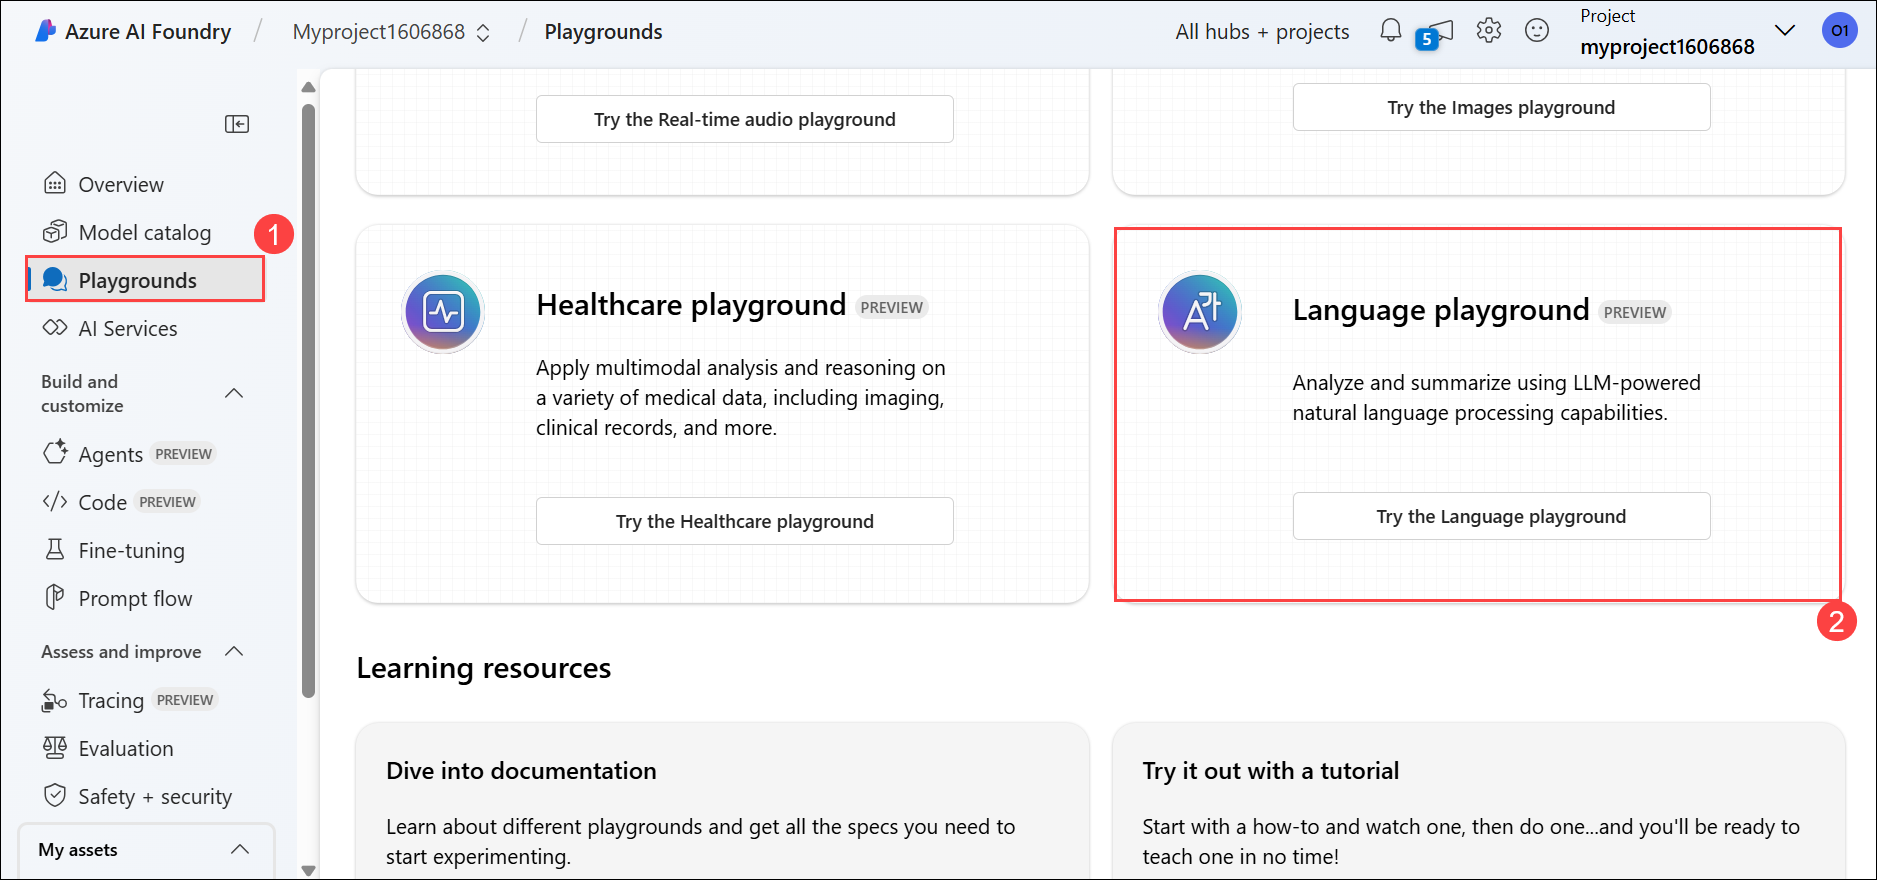
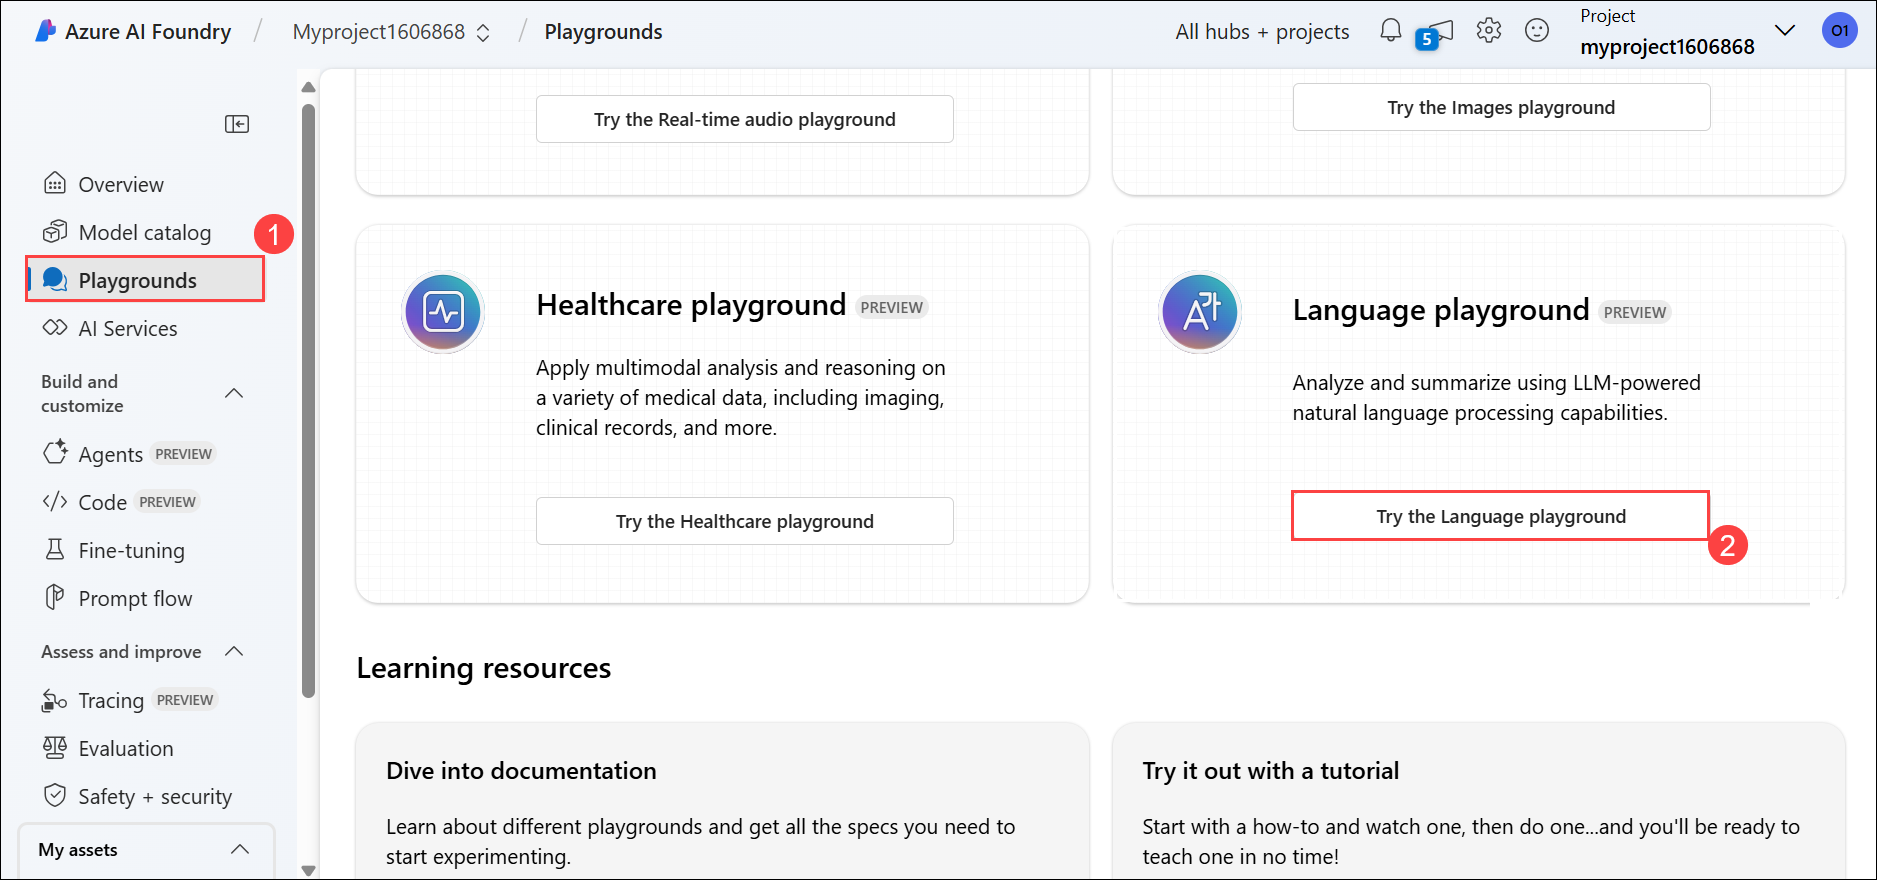
Updated

diff --git a/Instructions/Labs/06-text-analysis.md b/Instructions/Labs/06-text-analysis.md
@@ -99,13 +99,15 @@ This task demonstrates how to use Azure AI Language Playground for Named Entity 
 
 *Named entities* are words that describe people, places, and objects with proper names. Let's use the named entity extraction capability of Azure AI Language to identify types of information in a review.
 
-1. Navigate to **Playgrounds (1)** from the left pane, select the **Language playground (2)** tile to try out some Azure AI Language capabilities.
+1. Navigate to **Playgrounds (1)** from the left pane, Under **Language playground** tile select **Try the Language playground (2)**.
 
     ![](./media/18-1.png)
 
 1. In the Language playground, select **Extract information (1)**. Then select the **Extract named entities (2)** tile. 
 
-1. Under **Sample (3)**, copy and paste the following review:
+   ![](./media/3-25.png)
+
+1. Under **Sample**, copy and paste the following review:
 
     ```
     Tired hotel with poor service
@@ -114,11 +116,13 @@ This task demonstrates how to use Azure AI Language Playground for Named Entity 
     This is an old hotel (has been around since 1950's) and the room furnishings are average - becoming a bit old now and require changing. The internet didn't work and had to come to one of their office rooms to check in for my flight home. The website says it's close to the British Museum, but it's too far to walk.
     ```
 
-1. Select **Run (4)**. Review the output.
+   ![](./media/6-1.png)
+   
+1. Click **Run** to process the text.
 
-   ![](./media/18-2.png)
+   ![](./media/6-2.png)
 
-2. Notice in the **Details** section how the extracted entities come with additional information such as type and confidence scores. The confidence score represents the likelihood that the type identified actually belongs to that category.
+2. Review the output and observe the **Details** section, where the extracted entities are accompanied by additional information such as type and confidence scores. The confidence score indicates the probability that the identified type correctly belongs to the specified category.
 
    ![](./media/18-3.png)
 
@@ -130,7 +134,9 @@ This task demonstrates how to use Azure AI Language Playground for key phrase ex
 
 1. In the Language playground, select **Extract information (1)**. Then select the **Extract key phrases (2)** tile. 
 
-1. Under **Sample (3)**, copy and paste the following review:
+   ![](./media/6-3.png)
+
+1. Under **Sample**, copy and paste the following review:
 
     ```
     Good Hotel and staff
@@ -138,13 +144,16 @@ This task demonstrates how to use Azure AI Language Playground for key phrase ex
     3/2/2018
     Clean rooms, good service, great location near Buckingham Palace and Westminster Abbey, and so on. We thoroughly enjoyed our stay. The courtyard is very peaceful and we went to a restaurant which is part of the same group and is Indian ( West coast so plenty of fish) with a Michelin Star. We had the taster menu which was fabulous. The rooms were very well appointed with a kitchen, lounge, bedroom and enormous bathroom. Thoroughly recommended.
     ```
-1. Select **Run (4)**. Review the output.
 
-    ![](./media/18-4.png)
+   ![](./media/6-4.png)
 
-1. Notice the different phrases extracted in the **Details** section. These phrases should contribute most to the text's meaning.
+1. Click **Run** to process the text.
 
-   ![](./media/18-5.png)
+   ![](./media/6-5.png)
+
+1. Review the output and observe the different phrases extracted in the **Details** section. These phrases should represent key elements that contribute the most to the overall meaning of the text.
+
+   ![](./media/6-6.png)
 
 ## Task 4: Summarize text with Azure AI Language in Azure AI Foundry portal
 
@@ -152,7 +161,9 @@ In this task, we are using Azure AI Language to generate an extractive summary b
  
 1. Let's look at Azure AI Language's summarization capabilities. In the Language playground, select **Summarize information (1)**, then select the **Summarize text (2)** tile.
 
-1. Under **Sample (3)**, copy and paste the following review:
+   ![](./media/6-7.png)
+
+1. Under **Sample**, copy and paste the following review:
     
     ```
     Very noisy and rooms are tiny
@@ -160,13 +171,16 @@ In this task, we are using Azure AI Language to generate an extractive summary b
     9/5/2018
     Hotel is located on Lombard street which is a very busy SIX lane street directly off the Golden Gate Bridge. Traffic from early morning until late at night especially on weekends. Noise would not be so bad if rooms were better insulated but they are not. Had to put cotton balls in my ears to be able to sleep--was too tired to enjoy the city the next day. Rooms are TINY. I picked the room because it had two queen size beds--but the room barely had space to fit them. With family of four in the room it was tight. With all that said, rooms are clean and they've made an effort to update them. The hotel is in Marina district with lots of good places to eat, within walking distance to Presidio. May be good hotel for young stay-up-late adults on a budget
     ```
-1. Select **Run (4)**. Review the output.
 
-   ![](./media/18-7.png)
+   ![](./media/6-8.png)
 
-1. Notice the *Extractive summary* in **Details** provides rank scores for the most salient sentences.  
+1. Click **Run** to process the text.
 
-   ![](./media/18-6.png)
+   ![](./media/6-9.png)
+
+1. Review the output and observe that the *Extractive summary* in the **Details** section provides rank scores for the most significant sentences, highlighting their relevance to the overall text.  
+
+   ![](./media/6-10.png)
 
 ### Review
 In this exercise, you have completed the following tasks:

diff --git a/Instructions/Labs/03-image-analysis.md b/Instructions/Labs/03-image-analysis.md
@@ -30,7 +30,7 @@ In this task, we are setting up a project in Azure AI Foundry by creating and co
 
    ![](./media/17-18.png)
 
-1. Enter your credentials:
+1. If prompt, Enter your credentials:
  
    - **Email/Username:** <inject key="AzureAdUserEmail"></inject>
  
@@ -41,8 +41,10 @@ In this task, we are setting up a project in Azure AI Foundry by creating and co
    - **Password:** <inject key="AzureAdUserPassword"></inject>
  
      ![Enter Your Password](./media/19-5.png)
- 
-1. If prompted to stay signed in, you can click **No**. 
+
+1. If prompted with *Streamlined from the start*, click on **Got it** to proceed.
+
+   ![](./media/3-23.png)
 
 1. On the Azure AI Foundry portal home page, select **Create a project**. In Azure AI Foundry, projects are containers that help organize your work.  
 
@@ -80,7 +82,12 @@ In this task, we are setting up a project in Azure AI Foundry by creating and co
     - **Key Vault**
 
       ![](./media/17-4.png)
+
       >**Note:** Once the deployment will succeed, close the *Project help* pane that will appear on right side.      
+
+1. If prompted with *Explore and experiment*, click on **Close** to dismiss it.
+
+    ![](./media/3-24.png)
 
 > **Congratulations** on completing the task! Now, it's time to validate it. Here are the steps:
  - Hit the Validate button for the corresponding task. If you receive a success message, you can proceed to the next task. 
